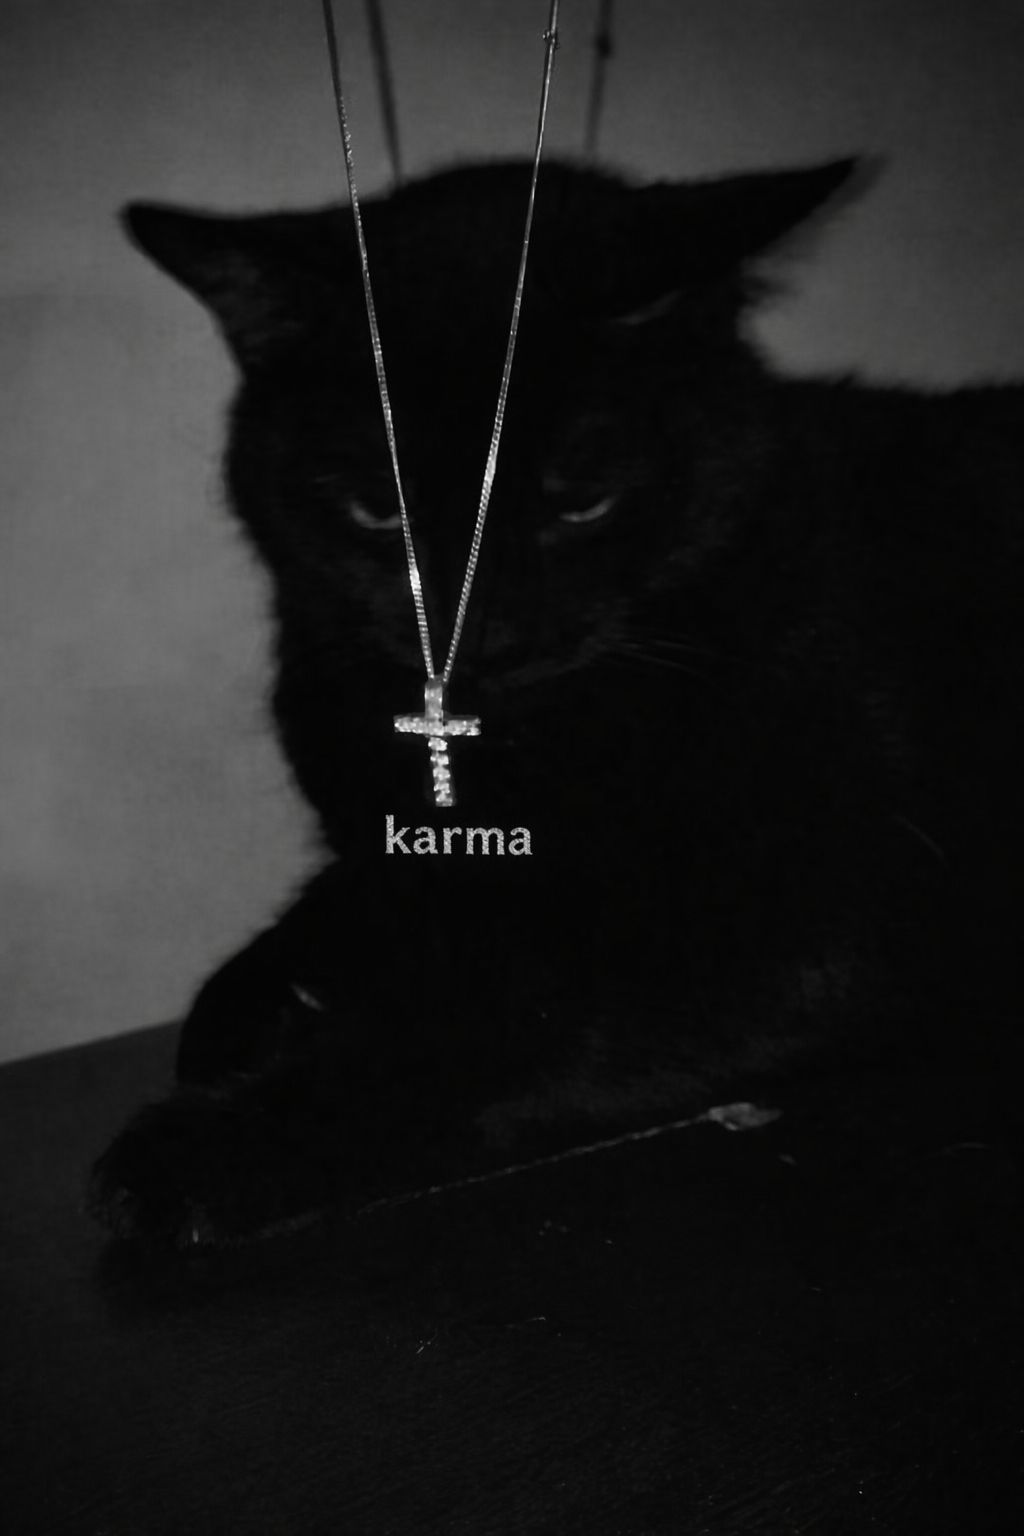
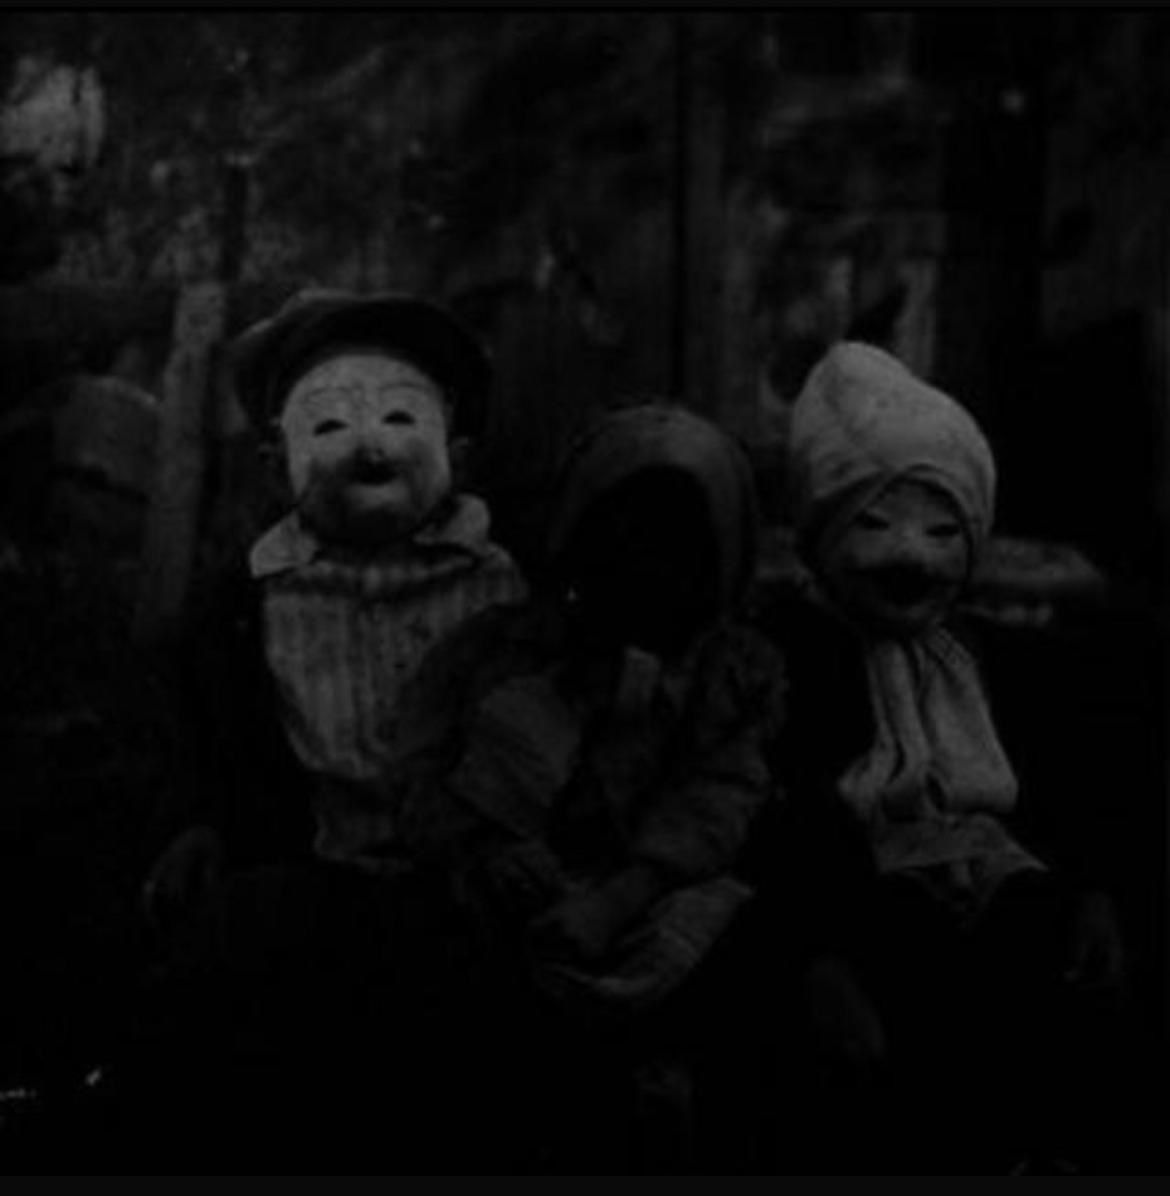
u

diff --git a/config.js b/config.js
@@ -20,8 +20,8 @@ global.wait = 'ⓘ 𝐂𝐚𝐫𝐢𝐜𝐚𝐦𝐞𝐧𝐭𝐨 ...';
 
 global.owner = [
   ['393455383567', 'ʍɛօա', true],
-  ['19782540529'], // Numero, Nome, True (attenzione alla sintassi deve essere identico a sopra!)
-  ['212775970841'],
+  ['19782540529', 'xxxx', true], // Numero, Nome, True (attenzione alla sintassi deve essere identico a sopra!)
+  ['212775970841', 'xxxx', true],
   ['xxxxxxxxxx'],
   ['xxxxxxxxxx'],
   ['xxxxxxxxxx']